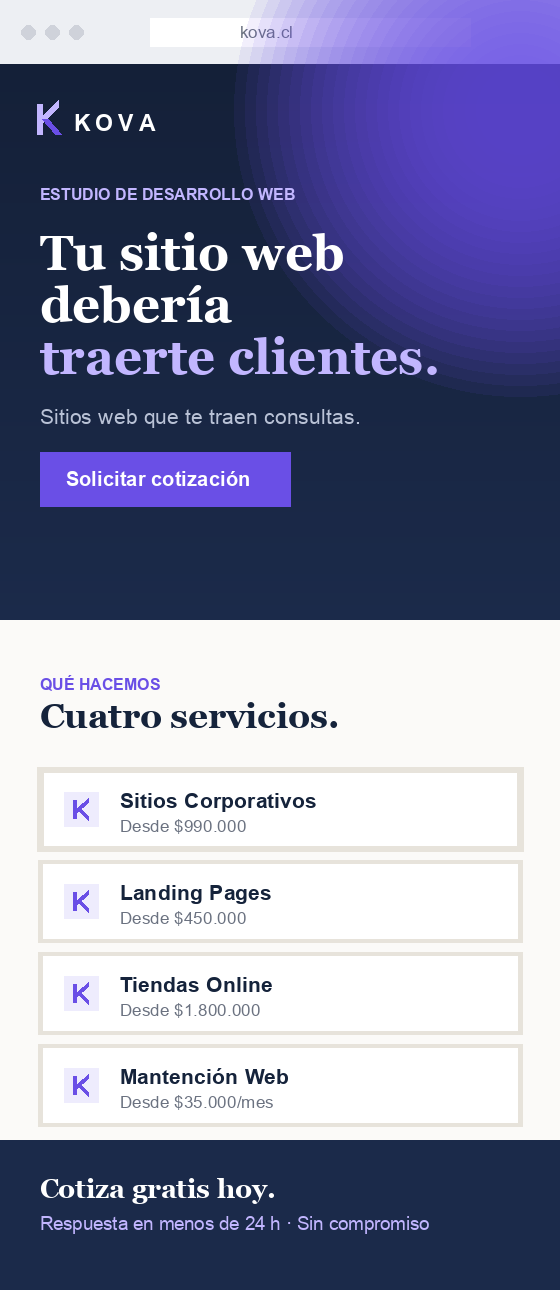
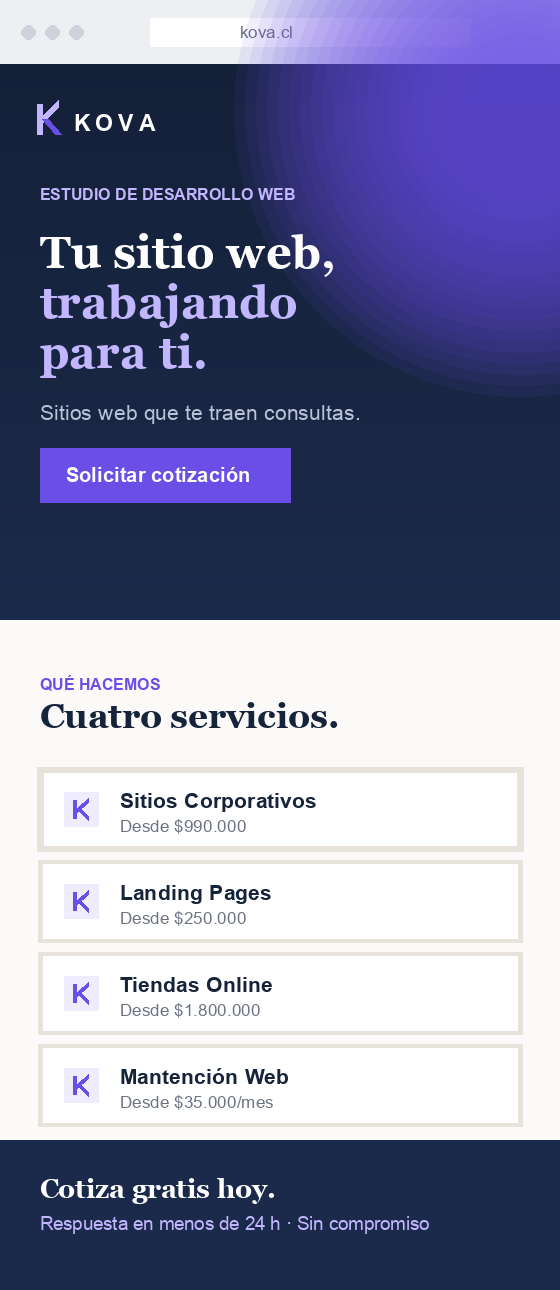
copy(portal): titular del hero más amable — 'Tu sitio web, trabajando para ti'
Reemplaza 'Tu sitio web debería traerte clientes' (tono acusador) en el hero
de la Home y regenera og-default.png y kova-web-mockup.png con el nuevo titular.

Changed region(s): [[0.0607, 0.155, 0.7893, 0.4031]]

diff --git a/components/portal/home.php b/components/portal/home.php
@@ -29,7 +29,7 @@ $maint = portalMaintenance();
         <div class="hero__inner">
             <div class="hero__copy">
                 <span class="hero__eyebrow"><span class="dot"></span> Estudio de desarrollo web</span>
-                <h1 class="hero__title">Tu sitio web debería <span class="text-gradient">traerte clientes</span>.</h1>
+                <h1 class="hero__title">Tu sitio web, <span class="text-gradient">trabajando para ti</span>.</h1>
                 <p class="hero__sub">Sitios web que te hacen ver profesional y te traen consultas.</p>
                 <div class="hero__actions">
                     <a href="/cotizacion" class="btn btn--arrow">Solicitar cotización</a>